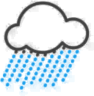
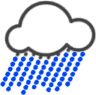
change: 降水量の見出しの絵の雨粒を、はっきりした青に（少し大きく）
Claude-Session: https://claude.ai/code/session_01M6MmCFRYFULb3Pq5EuzxK3

diff --git a/README.md b/README.md
@@ -465,7 +465,7 @@ WantedBy=multi-user.target
 
 ### 見出しの絵
 
-今日の天気の見出し「降水量」「気　温」「風　速」の右に、文字と同じ大きさ（22px）の絵を付ける（降水量は雨粒を水色、気温は温度計の液を赤、風速は線を青。ほかは濃い灰色）。「気温」「風速」は真ん中に全角スペースを入れて「降水量」と同じ幅にし、絵を縦一列にそろえる（`weather_icons/labels/` の `precip.png`・`temp.png`・`wind.png`。`weather_draw.py` の `LABEL_ICONS`）。
+今日の天気の見出し「降水量」「気　温」「風　速」の右に、文字と同じ大きさ（22px）の絵を付ける（降水量は雨粒を青、気温は温度計の液を赤、風速は線を青。ほかは濃い灰色）。「気温」「風速」は真ん中に全角スペースを入れて「降水量」と同じ幅にし、絵を縦一列にそろえる（`weather_icons/labels/` の `precip.png`・`temp.png`・`wind.png`。`weather_draw.py` の `LABEL_ICONS`）。
 
 ### 今日の天気のアイコン（Open-Meteo の天気 → 気象庁のアイコン）
 
